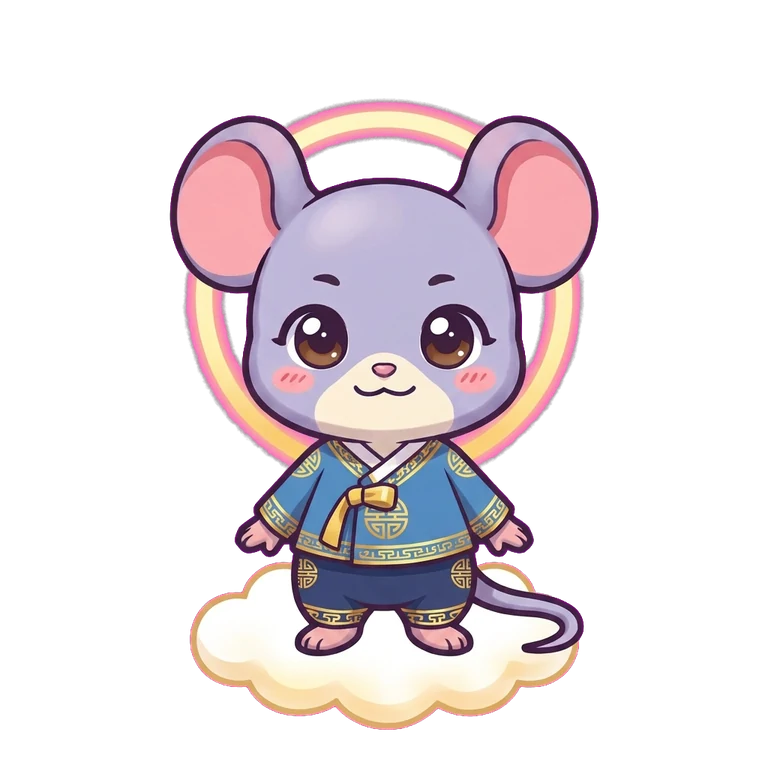
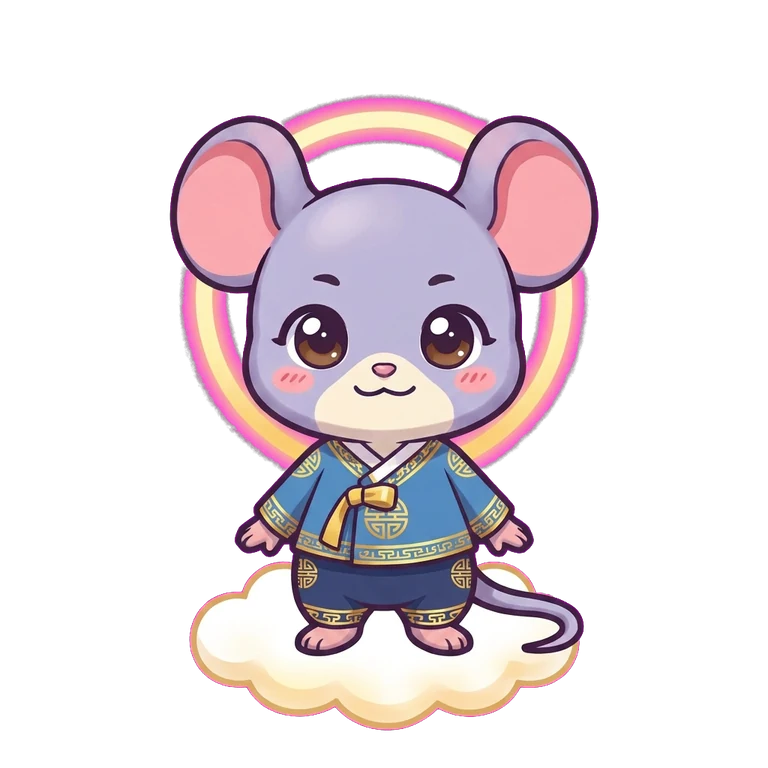
Add dragon images (13), keep pink hearts on pink-magenta backgrounds
Narrow the magenta hue window to 8-16 degrees (background spread is
under 4 degrees) and reprocess rat and ox with it.

Claude-Session: https://claude.ai/code/session_01BPzEyfs4CnZ61wXWeSyjJf

diff --git a/saju-app/js/asset-manifest.js b/saju-app/js/asset-manifest.js
@@ -1,3 +1,3 @@
 // 자동 생성 파일 (tools/ingest.py manifest) — 손으로 고치지 마세요
-export const CHAR_FILES = ["ox_s1", "ox_s2", "ox_s3", "ox_s4", "ox_s5", "rabbit_s1", "rabbit_s2", "rabbit_s3", "rabbit_s4", "rabbit_s5", "rat_s1", "rat_s2", "rat_s3", "rat_s4", "rat_s5", "tiger_s1", "tiger_s2", "tiger_s3", "tiger_s4", "tiger_s5"];
-export const EMO_FILES = ["ox_calm", "ox_excited", "ox_fighting", "ox_love", "ox_sleepy", "ox_smile", "ox_thanks", "ox_wow", "rabbit_calm", "rabbit_excited", "rabbit_fighting", "rabbit_love", "rabbit_sleepy", "rabbit_smile", "rabbit_thanks", "rabbit_wow", "rat_calm", "rat_excited", "rat_fighting", "rat_love", "rat_sleepy", "rat_smile", "rat_thanks", "rat_wow", "tiger_calm", "tiger_excited", "tiger_fighting", "tiger_love", "tiger_sleepy", "tiger_smile", "tiger_thanks", "tiger_wow"];
+export const CHAR_FILES = ["dragon_s1", "dragon_s2", "dragon_s3", "dragon_s4", "dragon_s5", "ox_s1", "ox_s2", "ox_s3", "ox_s4", "ox_s5", "rabbit_s1", "rabbit_s2", "rabbit_s3", "rabbit_s4", "rabbit_s5", "rat_s1", "rat_s2", "rat_s3", "rat_s4", "rat_s5", "tiger_s1", "tiger_s2", "tiger_s3", "tiger_s4", "tiger_s5"];
+export const EMO_FILES = ["dragon_calm", "dragon_excited", "dragon_fighting", "dragon_love", "dragon_sleepy", "dragon_smile", "dragon_thanks", "dragon_wow", "ox_calm", "ox_excited", "ox_fighting", "ox_love", "ox_sleepy", "ox_smile", "ox_thanks", "ox_wow", "rabbit_calm", "rabbit_excited", "rabbit_fighting", "rabbit_love", "rabbit_sleepy", "rabbit_smile", "rabbit_thanks", "rabbit_wow", "rat_calm", "rat_excited", "rat_fighting", "rat_love", "rat_sleepy", "rat_smile", "rat_thanks", "rat_wow", "tiger_calm", "tiger_excited", "tiger_fighting", "tiger_love", "tiger_sleepy", "tiger_smile", "tiger_thanks", "tiger_wow"];

diff --git a/saju-app/tools/chroma.py b/saju-app/tools/chroma.py
@@ -36,7 +36,7 @@ def remove(src, dst, key='green', size=None):
         hue, sat, val = _hsv(r, g, b)
         h0 = _border_hue(hue, sat, val)
         dh = np.abs((hue - h0 + 180) % 360 - 180)
-        a_h = np.clip((dh - 14) / (26 - 14), 0, 1)        # 색상이 배경과 14° 이내 → 투명, 26° 이상 → 불투명
+        a_h = np.clip((dh - 8) / (16 - 8), 0, 1)          # 색상이 배경과 8° 이내 → 투명, 16° 이상 → 불투명 (배경 편차는 보통 4° 이내, 분홍 하트는 20° 이상)
         a_s = np.clip((0.62 - sat) / (0.62 - 0.45), 0, 1)  # 채도가 낮은 흰색·회색·연보라 털은 불투명 (배경 채도 0.7 이상)
         a_v = np.clip((0.75 - val) / (0.75 - 0.55), 0, 1)  # 어두운 보라 외곽선·눈동자는 불투명 (배경 명도 0.9 이상)
         alpha = np.maximum(a_h, np.maximum(a_s, a_v))
